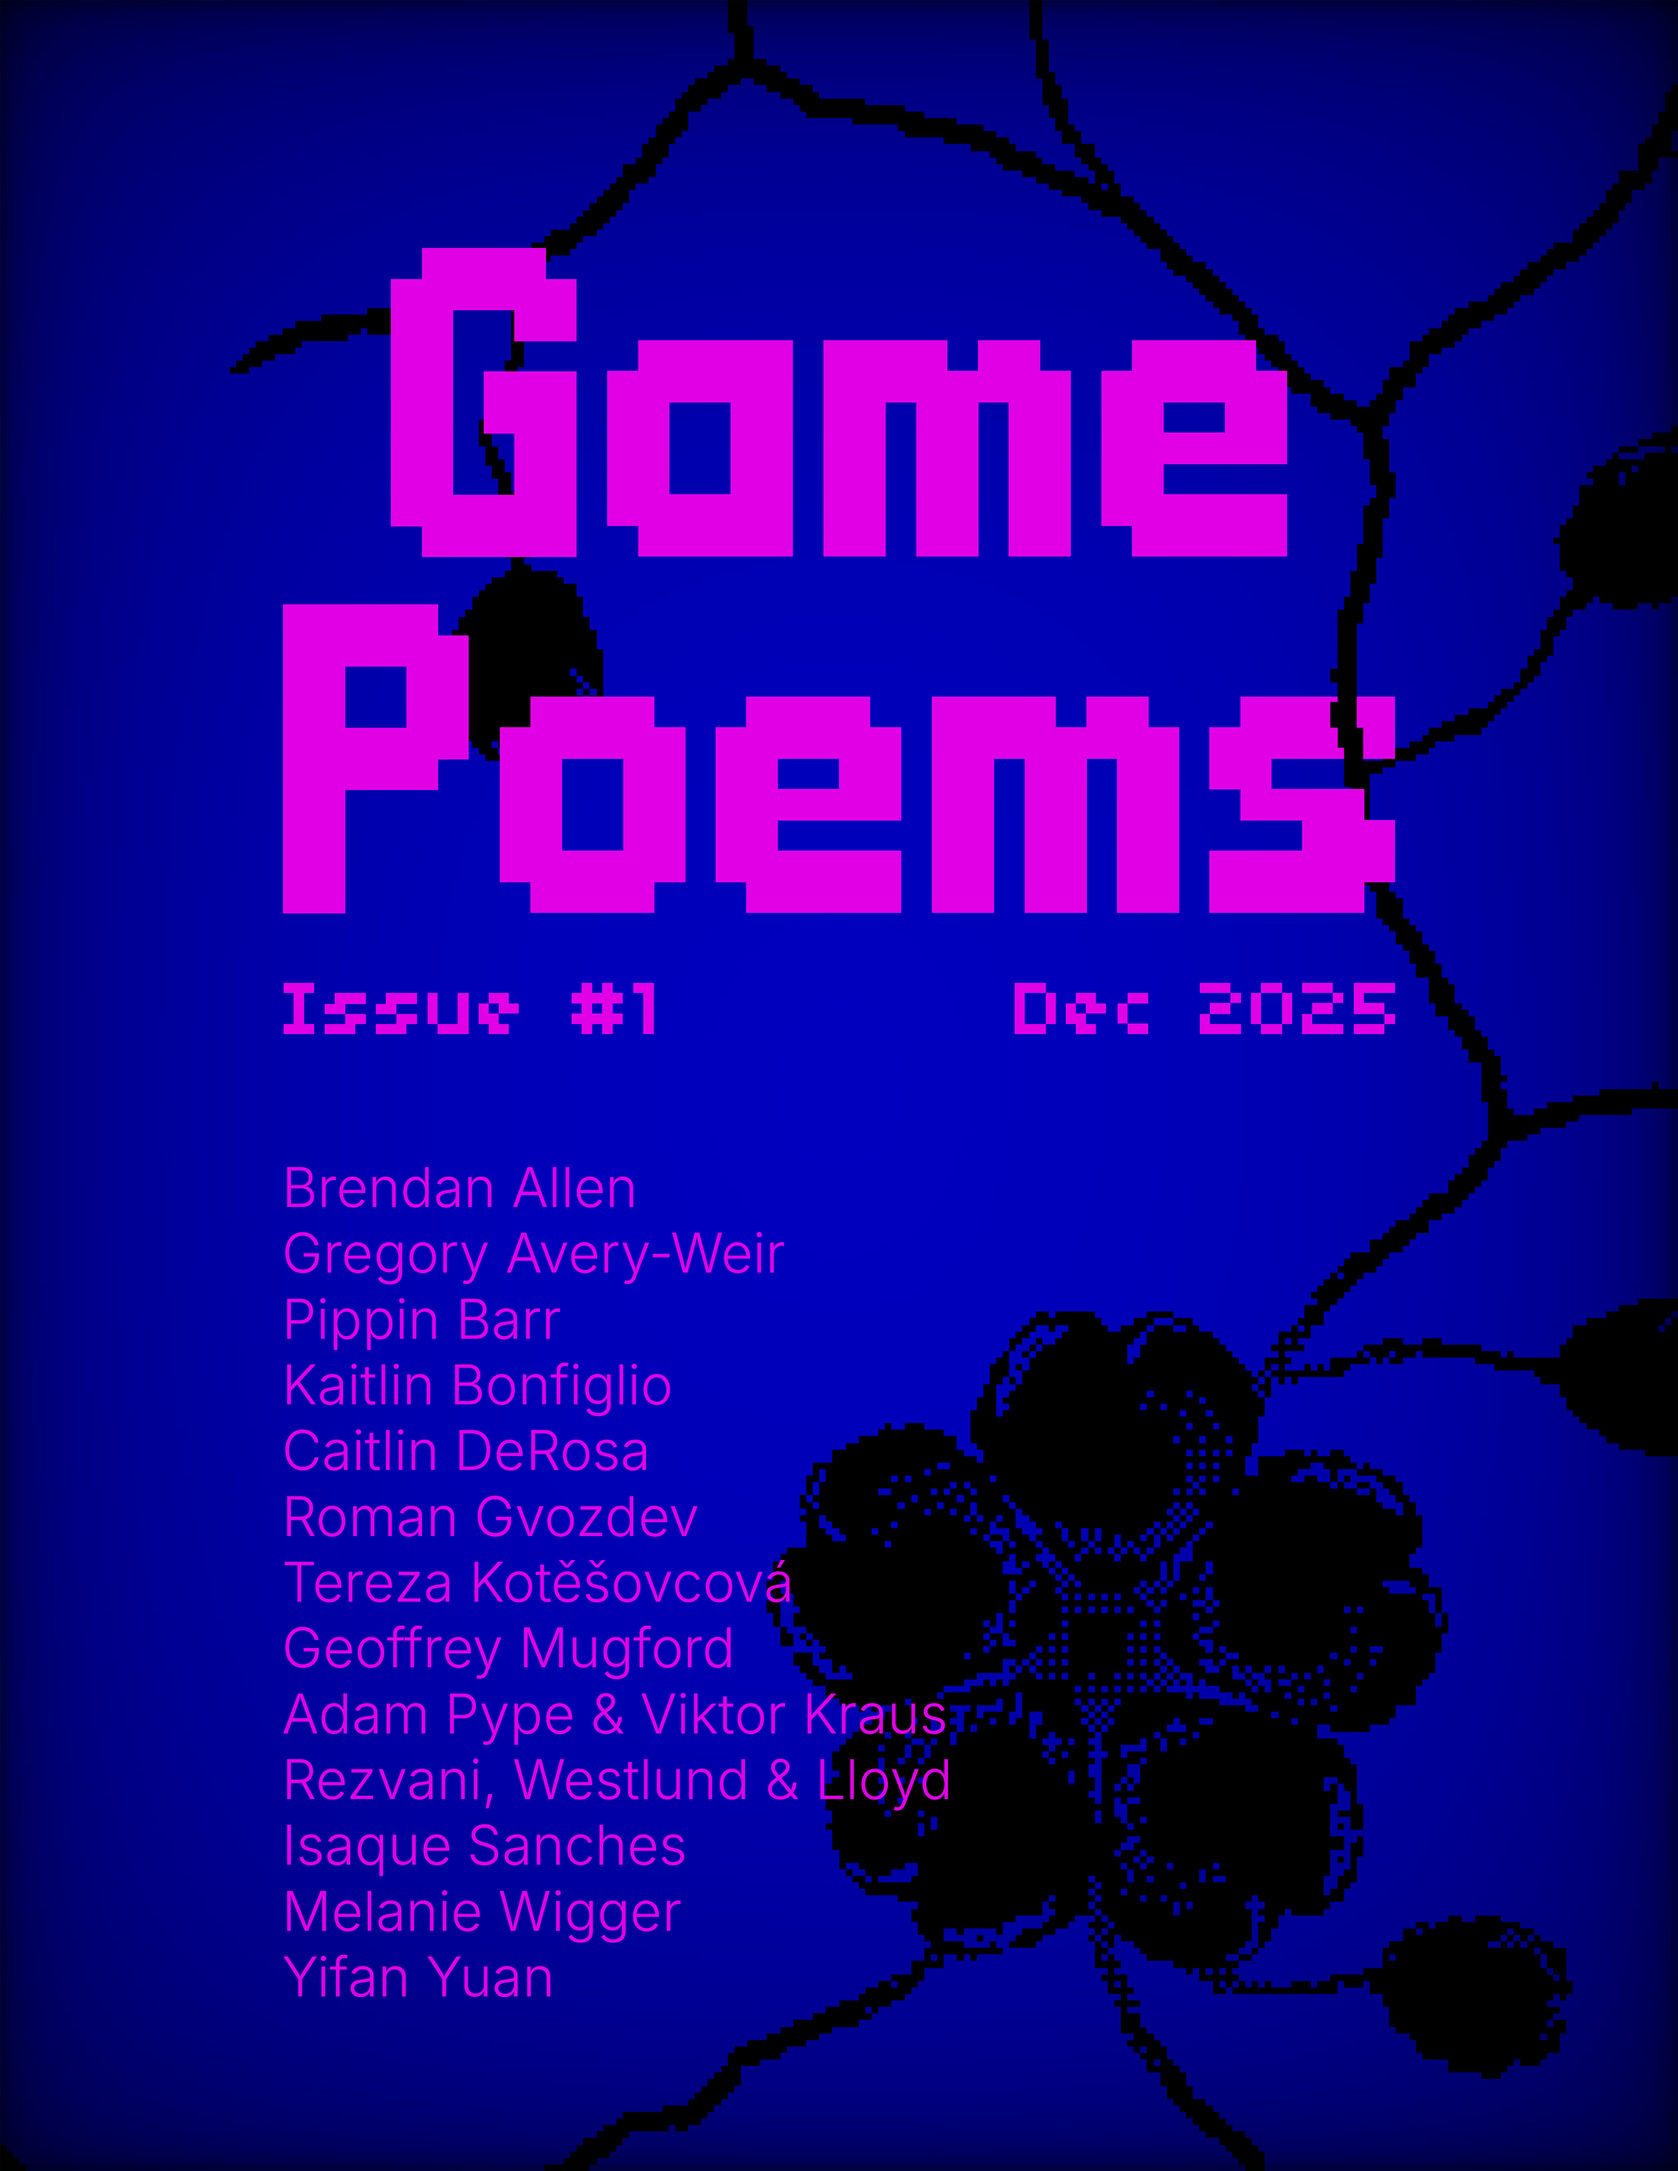
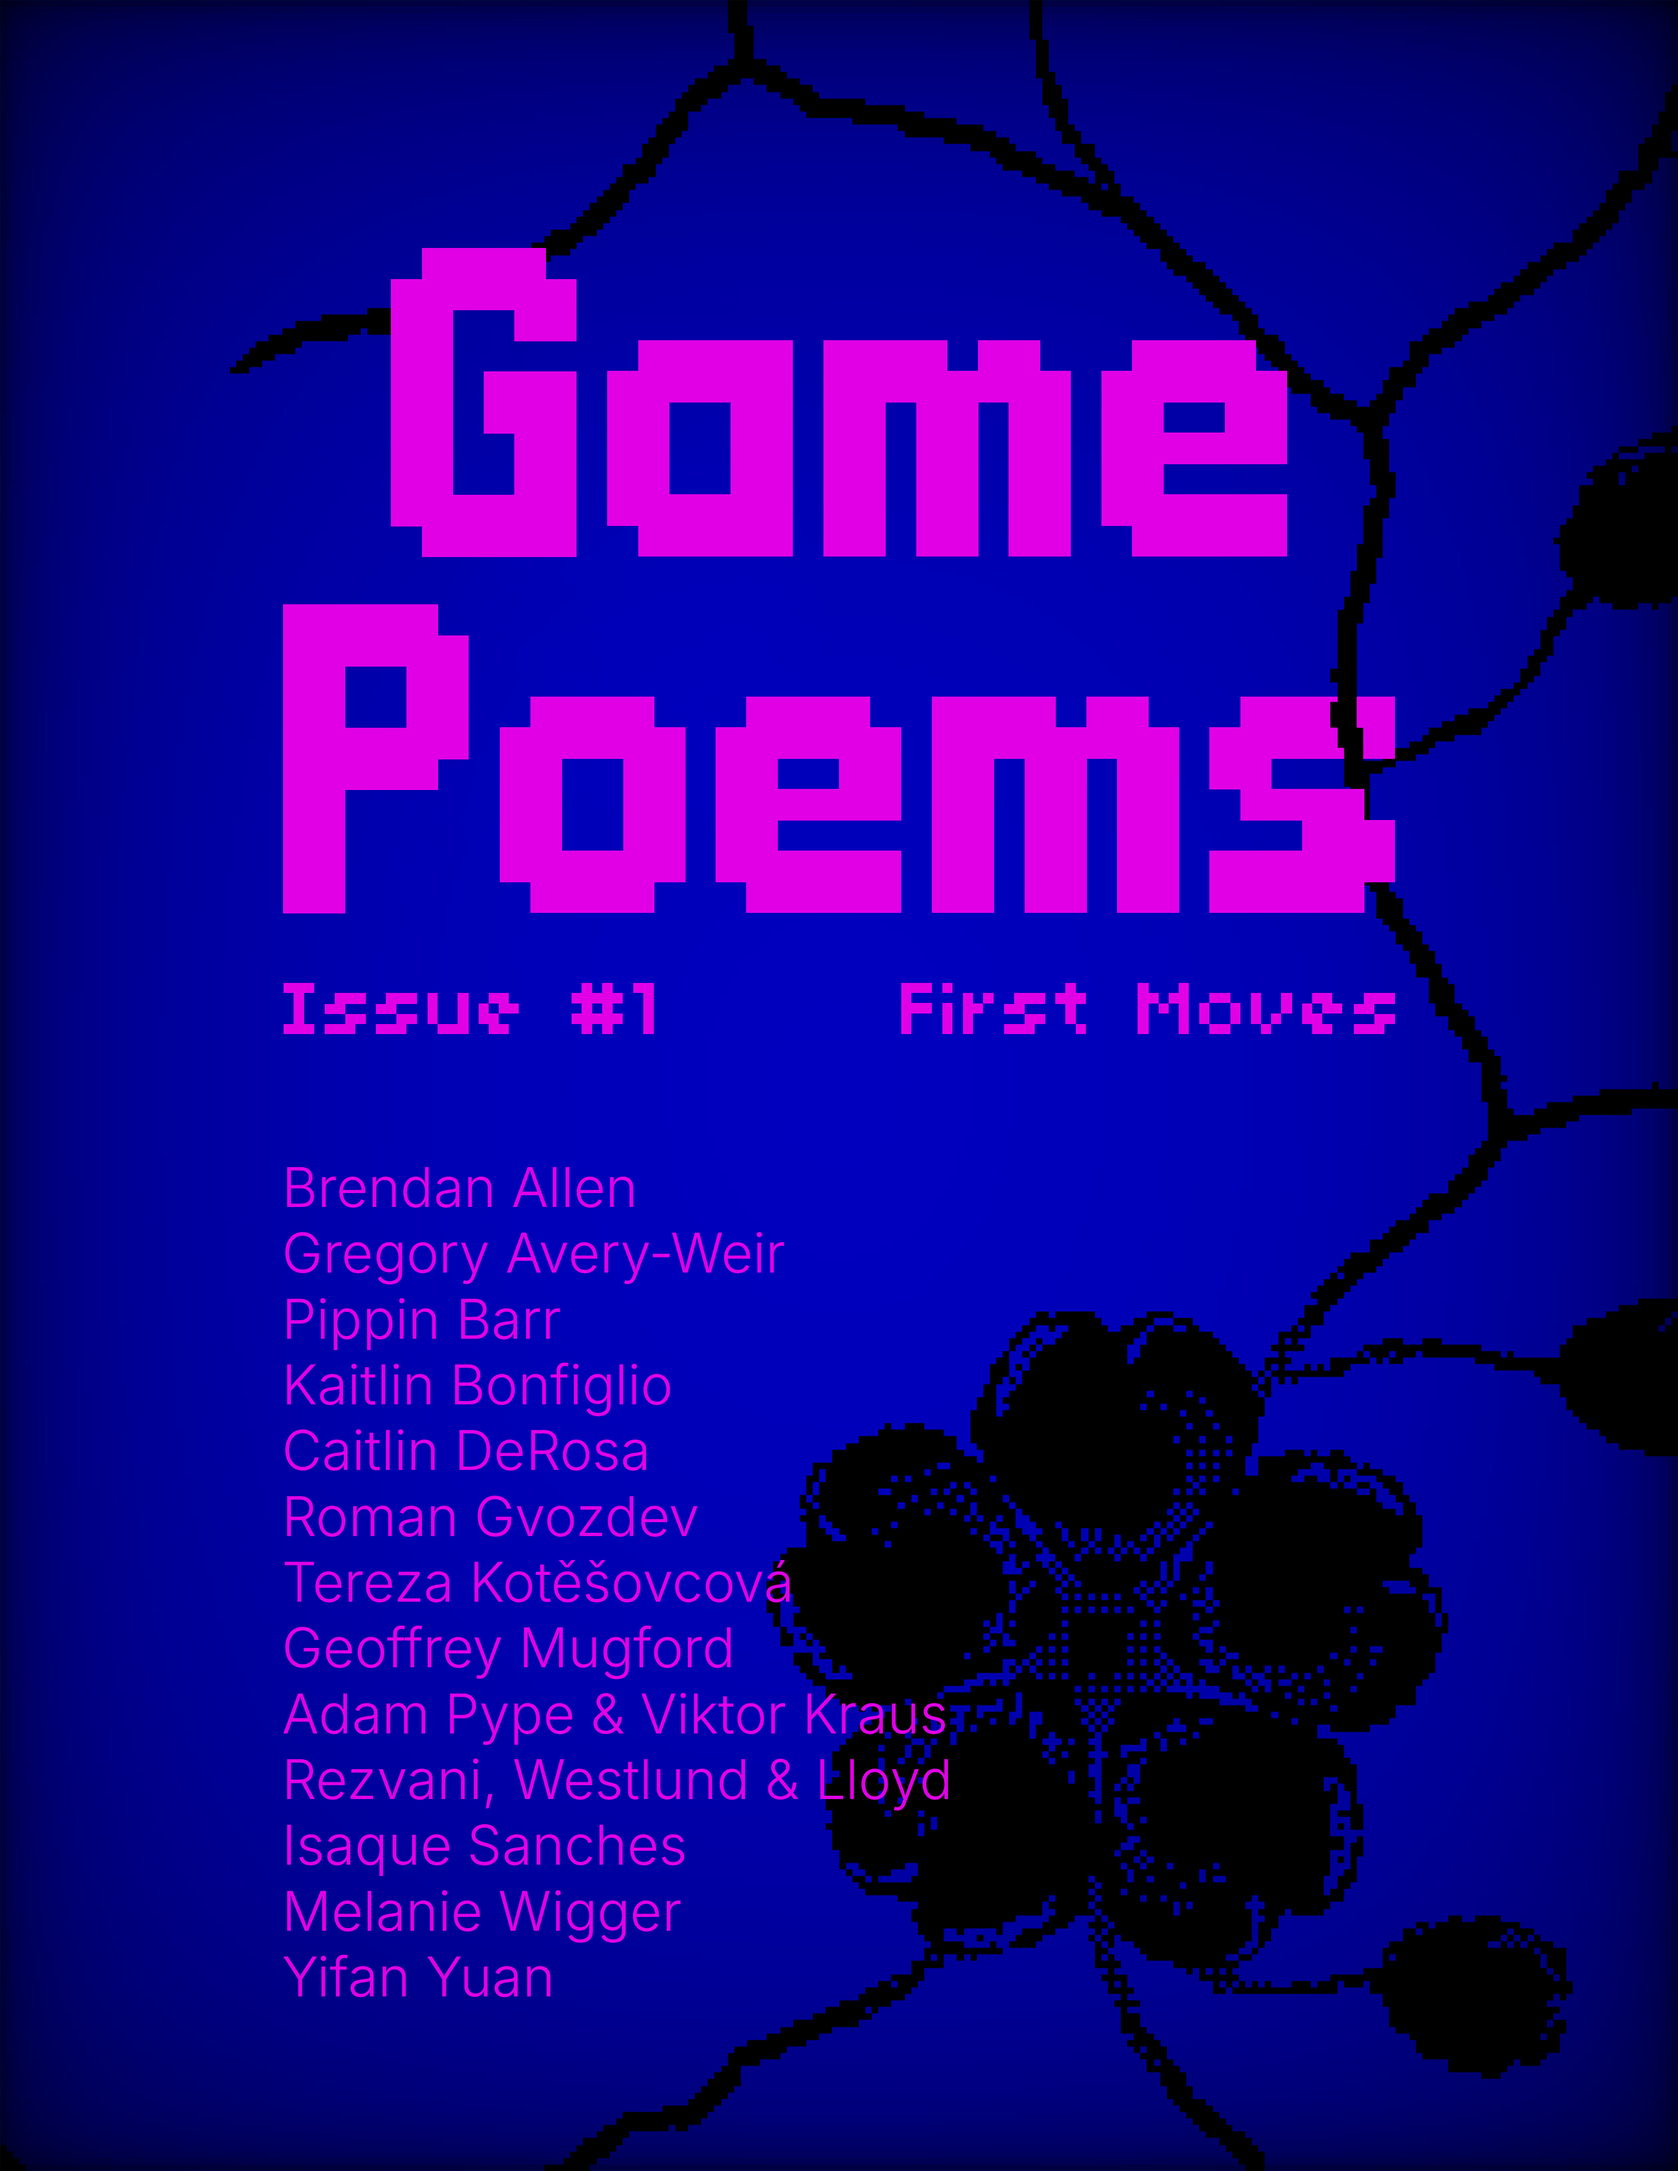
Update cover and publication date.

Changed region(s): [[0.5295, 0.4374, 0.841, 0.4999], [0.2492, 0.2499, 0.3738, 0.3437], [0.2803, 0.1562, 0.3115, 0.2187]]

diff --git a/magazine_pages.js b/magazine_pages.js
@@ -425,12 +425,14 @@ const pages = [
                     <img src="magazine_cover.png" alt="Magazine cover image"/>
                 </div>
                 <div class="column">
+                    <h2>Publication Date</h2>
+                    <p>January 2026</p>                
                     <h2>Cover</h2>
-                    <p>Cover art by Yifan Yuan.</p>
+                    <p>Cover art by Yifan Yuan</p>
                     <h2>Type</h2>
-                    <p><em>Casual Encounter</em> font by Anna Anthropy. <em>04</em> font by Yuji Oshimoto. <em>Inter</em> font by Rasmus Andersson.</p>
+                    <p><em>Casual Encounter</em> by Anna Anthropy<br/><em>04</em> by Yuji Oshimoto<br/><em>Inter</em> by Rasmus Andersson</p>
                     <h2>Honoraria</h2>
-                    <p>Honoraria are offered with support from the Games Design & Art Programme at Winchester School of Art, University of Southampton.</p>
+                    <p>Honoraria for Issue #1 are offered with support from the Games Design & Art Programme at Winchester School of Art, University of Southampton.</p>
                </div>
                <div class="column">
                     <h2>Accessibility</h2>
